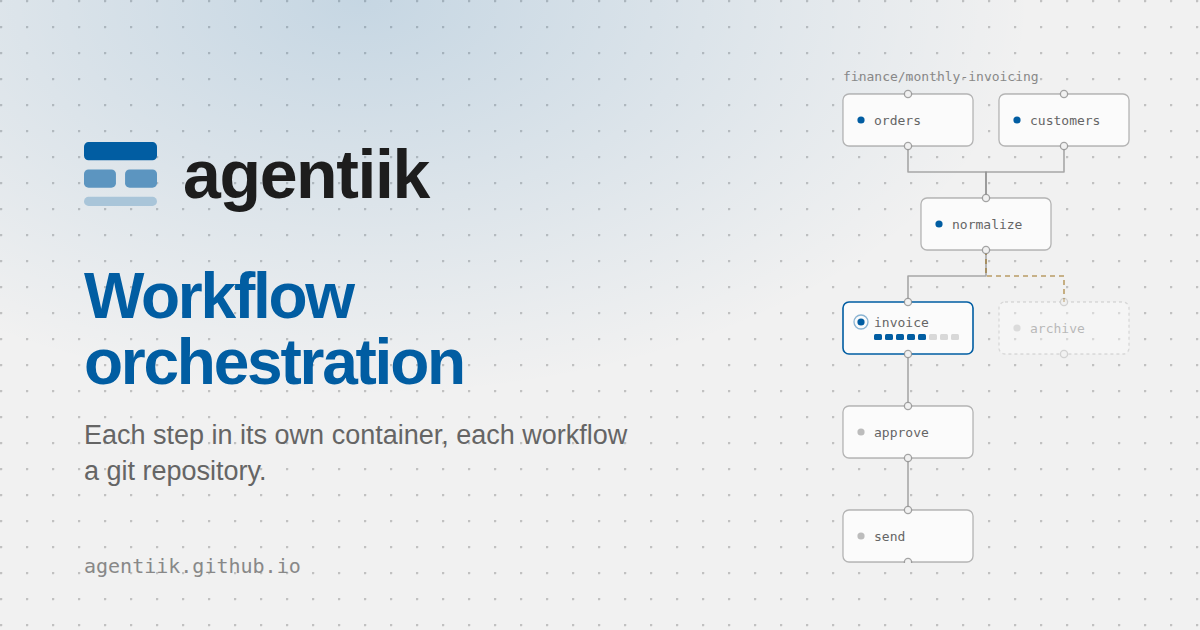
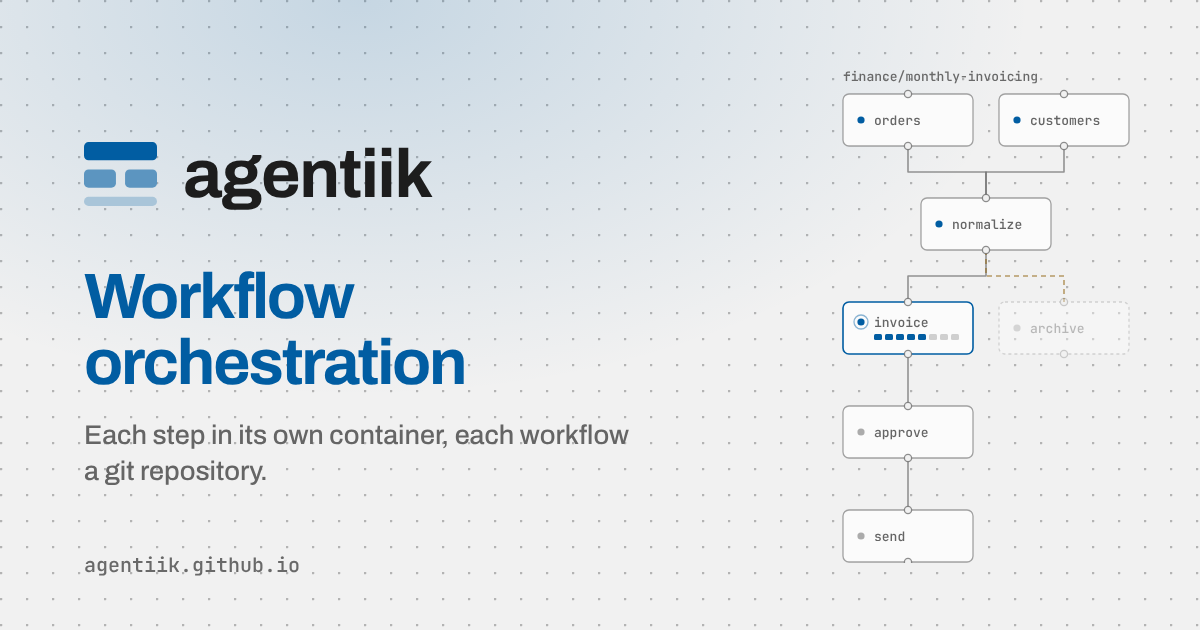
State the contrast every word keeps, and draw the tokens agentiik/design moves to reach it

diff --git a/docs/index.html b/docs/index.html
@@ -29,7 +29,7 @@
   --raised:#FFFFFF;
   --ink:#1D1D1D;
   --muted:#656565;
-  --faint:#888888;
+  --faint:#696969;
   --line:#DFDFDF;
   --line-strong:#C6C6C6;
   --accent:#015DA2;
@@ -66,7 +66,7 @@
     --raised:#222222;
     --ink:#E8E8E8;
     --muted:#9E9E9E;
-    --faint:#777777;
+    --faint:#898989;
     --line:#2E2E2E;
     --line-strong:#3E3E3E;
     --accent:#68AEF5;
@@ -84,7 +84,7 @@
   --raised:#222222;
   --ink:#E8E8E8;
   --muted:#9E9E9E;
-  --faint:#777777;
+  --faint:#898989;
   --line:#2E2E2E;
   --line-strong:#3E3E3E;
   --accent:#68AEF5;
@@ -921,9 +921,9 @@ figure[data-zoom] .figbody,figure[data-zoom] > .mock,figure[data-zoom] > img{cur
   .tabpanel[hidden]{display:block!important}
 }
 /* Console mockups: one markup, both themes, from the design system's tokens. */
-.mock{--m-bg:#F1F1F1;--m-surface:#FBFBFB;--m-pane:#F5F5F5;--m-sunken:#E9E9E9;--m-raised:#FFFFFF;--m-line:#DFDFDF;--m-line-strong:#C6C6C6;--m-text:#1D1D1D;--m-muted:#656565;--m-faint:#888888;--m-accent:#015DA2;--m-accent-dim:#D7E7F9;--m-accent-line:#A5C5E7;--m-on-accent:#FFFFFF;--m-ok:#2E7D4F;--m-ok-bg:#DCEBE0;--m-ok-line:#ADCDB9;--m-wait:#96660A;--m-wait-bg:#F4EAD3;--m-wait-line:#DBC69D;--m-fail:#B23C1E;--m-fail-bg:#F6E1D9;--m-fail-line:#E3B5A7;display:block;width:100%;height:auto}
-@media (prefers-color-scheme: dark){:root:not([data-theme="light"]) .mock{--m-bg:#121212;--m-surface:#1A1A1A;--m-pane:#0E0E0E;--m-sunken:#0E0E0E;--m-raised:#222222;--m-line:#2E2E2E;--m-line-strong:#3E3E3E;--m-text:#E8E8E8;--m-muted:#9E9E9E;--m-faint:#777777;--m-accent:#68AEF5;--m-accent-dim:#0F2B46;--m-accent-line:#1C4165;--m-on-accent:#121212;--m-ok:#5FA773;--m-ok-bg:#132A1C;--m-ok-line:#264B33;--m-wait:#D9A441;--m-wait-bg:#2E2413;--m-wait-line:#5B461E;--m-fail:#E0705A;--m-fail-bg:#31190F;--m-fail-line:#5F3023;}}
-:root[data-theme="dark"] .mock{--m-bg:#121212;--m-surface:#1A1A1A;--m-pane:#0E0E0E;--m-sunken:#0E0E0E;--m-raised:#222222;--m-line:#2E2E2E;--m-line-strong:#3E3E3E;--m-text:#E8E8E8;--m-muted:#9E9E9E;--m-faint:#777777;--m-accent:#68AEF5;--m-accent-dim:#0F2B46;--m-accent-line:#1C4165;--m-on-accent:#121212;--m-ok:#5FA773;--m-ok-bg:#132A1C;--m-ok-line:#264B33;--m-wait:#D9A441;--m-wait-bg:#2E2413;--m-wait-line:#5B461E;--m-fail:#E0705A;--m-fail-bg:#31190F;--m-fail-line:#5F3023;}
+.mock{--m-bg:#F1F1F1;--m-surface:#FBFBFB;--m-pane:#F5F5F5;--m-sunken:#E9E9E9;--m-raised:#FFFFFF;--m-line:#DFDFDF;--m-line-strong:#C6C6C6;--m-text:#1D1D1D;--m-muted:#656565;--m-faint:#696969;--m-accent:#015DA2;--m-accent-dim:#D7E7F9;--m-accent-line:#A5C5E7;--m-on-accent:#FFFFFF;--m-ok:#2B754A;--m-ok-bg:#DCEBE0;--m-ok-line:#ADCDB9;--m-wait:#8F610A;--m-wait-bg:#F4EAD3;--m-wait-line:#DBC69D;--m-fail:#B23C1E;--m-fail-bg:#F6E1D9;--m-fail-line:#E3B5A7;display:block;width:100%;height:auto}
+@media (prefers-color-scheme: dark){:root:not([data-theme="light"]) .mock{--m-bg:#121212;--m-surface:#1A1A1A;--m-pane:#0E0E0E;--m-sunken:#0E0E0E;--m-raised:#222222;--m-line:#2E2E2E;--m-line-strong:#3E3E3E;--m-text:#E8E8E8;--m-muted:#9E9E9E;--m-faint:#898989;--m-accent:#68AEF5;--m-accent-dim:#0F2B46;--m-accent-line:#1C4165;--m-on-accent:#121212;--m-ok:#5FA773;--m-ok-bg:#132A1C;--m-ok-line:#264B33;--m-wait:#D9A441;--m-wait-bg:#2E2413;--m-wait-line:#5B461E;--m-fail:#E0705A;--m-fail-bg:#31190F;--m-fail-line:#5F3023;}}
+:root[data-theme="dark"] .mock{--m-bg:#121212;--m-surface:#1A1A1A;--m-pane:#0E0E0E;--m-sunken:#0E0E0E;--m-raised:#222222;--m-line:#2E2E2E;--m-line-strong:#3E3E3E;--m-text:#E8E8E8;--m-muted:#9E9E9E;--m-faint:#898989;--m-accent:#68AEF5;--m-accent-dim:#0F2B46;--m-accent-line:#1C4165;--m-on-accent:#121212;--m-ok:#5FA773;--m-ok-bg:#132A1C;--m-ok-line:#264B33;--m-wait:#D9A441;--m-wait-bg:#2E2413;--m-wait-line:#5B461E;--m-fail:#E0705A;--m-fail-bg:#31190F;--m-fail-line:#5F3023;}
 .mock .t-sans{font-family:Archivo,"Helvetica Neue",Arial,sans-serif}
 .mock .t-mono{font-family:"JetBrains Mono",ui-monospace,monospace}
 .mock text{font-family:Archivo,"Helvetica Neue",Arial,sans-serif}
@@ -12201,7 +12201,7 @@ resource "agentiik_workflow" "search" {
           <rect x="139" y="30" width="58" height="44" fill="#121212"/>
           <rect x="202" y="30" width="58" height="44" fill="#1A1A1A"/>
           <rect x="265" y="30" width="58" height="44" fill="#222222"/>
-          <rect x="343" y="30" width="58" height="44" fill="#777777"/>
+          <rect x="343" y="30" width="58" height="44" fill="#898989"/>
           <rect x="406" y="30" width="58" height="44" fill="#9E9E9E"/>
           <rect x="469" y="30" width="58" height="44" fill="#E8E8E8"/>
           <rect x="547" y="30" width="58" height="44" fill="#0F2B46"/>
@@ -12215,14 +12215,14 @@ resource "agentiik_workflow" "search" {
           <rect x="139" y="142" width="58" height="44" fill="#F1F1F1"/>
           <rect x="202" y="142" width="58" height="44" fill="#FBFBFB"/>
           <rect x="265" y="142" width="58" height="44" fill="#FFFFFF"/>
-          <rect x="343" y="142" width="58" height="44" fill="#888888"/>
+          <rect x="343" y="142" width="58" height="44" fill="#696969"/>
           <rect x="406" y="142" width="58" height="44" fill="#656565"/>
           <rect x="469" y="142" width="58" height="44" fill="#1D1D1D"/>
           <rect x="547" y="142" width="58" height="44" fill="#D7E7F9"/>
           <rect x="610" y="142" width="58" height="44" fill="#015DA2"/>
-          <rect x="688" y="142" width="58" height="44" fill="#2E7D4F"/>
+          <rect x="688" y="142" width="58" height="44" fill="#2B754A"/>
           <rect x="751" y="142" width="58" height="44" fill="#015DA2"/>
-          <rect x="814" y="142" width="58" height="44" fill="#96660A"/>
+          <rect x="814" y="142" width="58" height="44" fill="#8F610A"/>
           <rect x="877" y="142" width="58" height="44" fill="#B23C1E"/>
         </g>
 
@@ -12246,7 +12246,7 @@ resource "agentiik_workflow" "search" {
         <g font-family="JetBrains Mono, monospace" font-size="8" fill="currentColor" opacity=".6">
           <text x="76" y="99">#0E0E0E</text><text x="139" y="99">#121212</text>
           <text x="202" y="99">#1A1A1A</text><text x="265" y="99">#222222</text>
-          <text x="343" y="99">#777777</text><text x="406" y="99">#9E9E9E</text>
+          <text x="343" y="99">#898989</text><text x="406" y="99">#9E9E9E</text>
           <text x="469" y="99">#E8E8E8</text>
           <text x="547" y="99">#0F2B46</text><text x="610" y="99">#68AEF5</text>
           <text x="688" y="99">#5FA773</text><text x="751" y="99">#68AEF5</text>
@@ -12254,11 +12254,11 @@ resource "agentiik_workflow" "search" {
 
           <text x="76" y="211">#E9E9E9</text><text x="139" y="211">#F1F1F1</text>
           <text x="202" y="211">#FBFBFB</text><text x="265" y="211">#FFFFFF</text>
-          <text x="343" y="211">#888888</text><text x="406" y="211">#656565</text>
+          <text x="343" y="211">#696969</text><text x="406" y="211">#656565</text>
           <text x="469" y="211">#1D1D1D</text>
           <text x="547" y="211">#D7E7F9</text><text x="610" y="211">#015DA2</text>
-          <text x="688" y="211">#2E7D4F</text><text x="751" y="211">#015DA2</text>
-          <text x="814" y="211">#96660A</text><text x="877" y="211">#B23C1E</text>
+          <text x="688" y="211">#2B754A</text><text x="751" y="211">#015DA2</text>
+          <text x="814" y="211">#8F610A</text><text x="877" y="211">#B23C1E</text>
         </g>
 
         <line x1="76" y1="240" x2="935" y2="240" stroke="currentColor" stroke-opacity=".2"/>
@@ -12274,6 +12274,7 @@ resource "agentiik_workflow" "search" {
       <li>The accent is the only brand colour, and marks what is interactive: primary buttons, links, selection, the selected row's marker, port dots on the graph.</li>
       <li>The state ramp is separate from the accent, except <code>running</code>, which borrows its hue because it is the live state. Hue is shared, form never is: a button is a solid fill with ink on it, a state an outlined pill with a dot.</li>
       <li>No state is signalled by colour alone: each carries a dot and a word, and a step strip adds position and width.</li>
+      <li>Every word is drawn at 4.5:1 at least against what it is drawn on, WCAG 2's level AA for text of ordinary size, whatever its role: <code>text</code>, <code>muted</code>, <code>faint</code> and the accent on each surface, a state's ink on its pill's fill, and <code>onAccent</code> on the accent. The word carries the state, and a word nobody can read carries none. The design system's build refuses a token below it.</li>
       <li>Elevation is ground value plus a hairline, never a shadow, and four surface tokens are the whole vocabulary: <code>sunken</code> for code and payload panes, <code>bg</code> for the page, <code>surface</code> for panels and rails, <code>raised</code> for rows, controls and the active item.</li>
     </ul>
     <p>The mockups on this page draw with ten more colours, each a hairline, an ink or a pill's fill and outline worked out from the swatches above, and published with them in <a href="https://github.com/agentiik/design">agentiik/design</a>:</p>
@@ -13603,10 +13604,10 @@ archive     queued
         <thead><tr><th>State</th><th>Dark ground</th><th>Light ground</th><th>256, dark</th><th>256, light</th><th>16 colours</th></tr></thead>
         <tbody>
           <tr><td>running</td><td class="wrapcell"><code>#68AEF5</code>, the accent's hue</td><td><code>#015DA2</code></td><td>75</td><td>25</td><td>blue</td></tr>
-          <tr><td>succeeded</td><td><code>#5FA773</code></td><td><code>#2E7D4F</code></td><td>72</td><td>29</td><td>green</td></tr>
-          <tr><td>waiting</td><td><code>#D9A441</code></td><td><code>#96660A</code></td><td>179</td><td>94</td><td>yellow</td></tr>
+          <tr><td>succeeded</td><td><code>#5FA773</code></td><td><code>#2B754A</code></td><td>72</td><td>29</td><td>green</td></tr>
+          <tr><td>waiting</td><td><code>#D9A441</code></td><td><code>#8F610A</code></td><td>179</td><td>94</td><td>yellow</td></tr>
           <tr><td>failed, timed_out</td><td><code>#E0705A</code></td><td><code>#B23C1E</code></td><td>167</td><td>88</td><td>red</td></tr>
-          <tr><td>queued, skipped, cancelled</td><td><code>#777777</code>, faint</td><td><code>#888888</code></td><td>243</td><td>102</td><td>the terminal's faint</td></tr>
+          <tr><td>queued, skipped, cancelled</td><td><code>#898989</code>, faint</td><td><code>#696969</code></td><td>245</td><td>242</td><td>the terminal's faint</td></tr>
         </tbody>
       </table>
     </div>

diff --git a/index.html b/index.html
@@ -28,12 +28,12 @@
   --raised:#FFFFFF;
   --ink:#1D1D1D;
   --muted:#656565;
-  --faint:#888888;
+  --faint:#696969;
   --line:#DFDFDF;
   --line-strong:#C6C6C6;
   --accent:#015DA2;
   --on-accent:#FFFFFF;
-  --wait:#96660A;
+  --wait:#8F610A;
   --fail:#B23C1E;
   --scrim:rgba(18,18,18,.42);
   --shadow:none;
@@ -47,7 +47,7 @@
     --raised:#222222;
     --ink:#E8E8E8;
     --muted:#9E9E9E;
-    --faint:#777777;
+    --faint:#898989;
     --line:#2E2E2E;
     --line-strong:#3E3E3E;
     --accent:#68AEF5;
@@ -64,7 +64,7 @@
   --raised:#222222;
   --ink:#E8E8E8;
   --muted:#9E9E9E;
-  --faint:#777777;
+  --faint:#898989;
   --line:#2E2E2E;
   --line-strong:#3E3E3E;
   --accent:#68AEF5;

diff --git a/docs/roadmap/index.html b/docs/roadmap/index.html
@@ -29,7 +29,7 @@
   --raised:#FFFFFF;
   --ink:#1D1D1D;
   --muted:#656565;
-  --faint:#888888;
+  --faint:#696969;
   --line:#DFDFDF;
   --line-strong:#C6C6C6;
   --accent:#015DA2;
@@ -66,7 +66,7 @@
     --raised:#222222;
     --ink:#E8E8E8;
     --muted:#9E9E9E;
-    --faint:#777777;
+    --faint:#898989;
     --line:#2E2E2E;
     --line-strong:#3E3E3E;
     --accent:#68AEF5;
@@ -84,7 +84,7 @@
   --raised:#222222;
   --ink:#E8E8E8;
   --muted:#9E9E9E;
-  --faint:#777777;
+  --faint:#898989;
   --line:#2E2E2E;
   --line-strong:#3E3E3E;
   --accent:#68AEF5;

diff --git a/brand/social.html b/brand/social.html
@@ -14,9 +14,9 @@
   --surface:#FBFBFB;
   --ink:#1D1D1D;
   --muted:#656565;
-  --faint:#888888;
+  --faint:#696969;
   --accent:#015DA2;
-  --wait:#96660A;
+  --wait:#8F610A;
 }
 *{box-sizing:border-box}
 html,body{margin:0;width:1200px;height:630px;overflow:hidden}

diff --git a/CHANGELOG.md b/CHANGELOG.md
@@ -58,9 +58,11 @@ Every repository of the project carries the same version and is tagged at the sa
 - The web console's keys say `c` and `p` ask again with Keep drawn before the same button turned red, `n` and `esc` keeping the run as it is, as every confirmation does (agentiik/agentiik#872); the MCP panel is a workflow's where its version publishes a tool, offers adding it to a collection under `workflow:run` and says MCP off where the installation serves none (agentiik/agentiik#877, agentiik/agentiik#886); and a refusal is drawn under the button that asked for it (agentiik/agentiik#876).
 - The web console's editor, refused because the branch moved, opens the file again at what the branch now holds with the change the person made kept beside it, line by line against the version they had opened (agentiik/agentiik#888).
 - The web console says the other origin's line stays at the top of the window as the page scrolls, the sidebar below it (agentiik/agentiik#881), and that its MCP panel draws a reference into another file of the tree as the workflow writes it, where a client is given the file embedded (agentiik.github.io#200).
+- Colour rules state the level every word keeps against what it is drawn on, 4.5:1, WCAG 2's level AA for text of ordinary size: `text`, `muted`, `faint` and the accent on each surface, a state's ink on its pill's fill, and `onAccent` on the accent (agentiik/design#32). The Design system chapter's swatches, the mockups' palette and agk console's colour table draw the tokens agentiik/design moves to reach it: `faint` `#898989` dark and `#696969` light, where it was `#777777` and `#888888`, and the light `succeeded` and `waiting` inks `#2B754A` and `#8F610A`, where they were `#2E7D4F` and `#96660A`; at 256 colours `faint` is 245 dark and 242 light, where it was 243 and 102.
 
 ### Site
 
+- The site's own pages and its social cards draw `faint` and the light `waiting` ink at the values agentiik/design moves them to, and the three cards in `assets/` are rendered again from `brand/social.html`.
 - The roadmap is marked with what v0.7.0 has done so far.
 - The roadmap marker reads up to 10,000 issues a repository, where it read the newest 500 and would have unmarked the oldest tasks of `agentiik`, which holds 612, and refuses to write when a repository answers that many, as it does when one cannot be read; the roadmap workflow tests both refusals before it marks anything.
 - `file-tasks.py` reads the titles already filed up to the same 10,000 issues a repository, where it read the newest 500 and would have filed an old task of `agentiik` a second time, and refuses to file anything when a repository answers that many.
